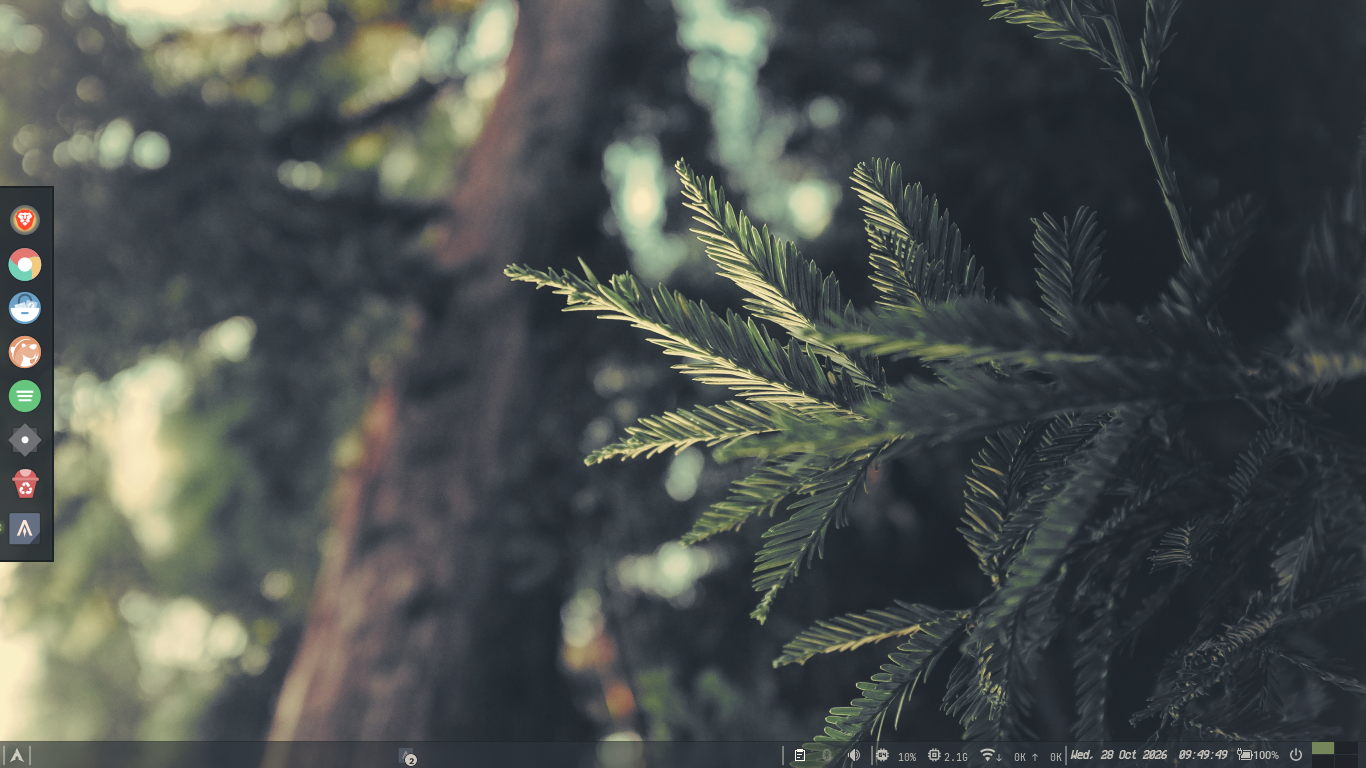
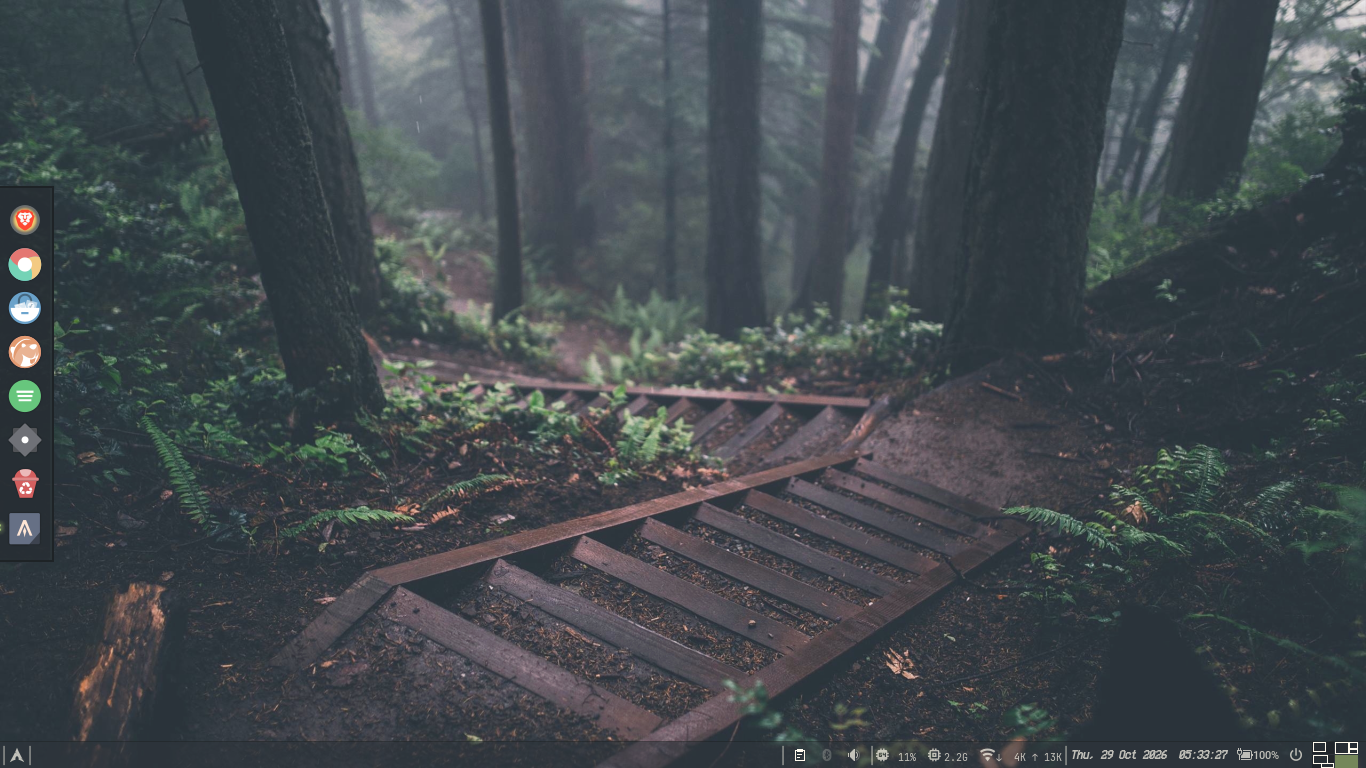
Capturas nuevas (mosaico y tiling -h) y README sin "No incluido"

diff --git a/README.md b/README.md
@@ -4,7 +4,9 @@ Arch + XFCE (X11) con Everforest Dark Hard, bordes cuadrados y temas intercambia
 
 ![Escritorio](screenshots/desktop.png)
 
-![Alacritty con neofetch, btop y bat](screenshots/terminals.png)
+![Mosaico en espiral áurea: btop, neofetch y picom.conf](screenshots/tiling.png)
+
+![Ventanas flotantes con bordes Square: tiling -h y theme.env](screenshots/terminals.png)
 
 ![Rofi sobre Thunar](screenshots/rofi.png)
 
@@ -79,9 +81,3 @@ Super+Alt+↑ era "maximizar" en xfwm4: ahora es de `tiling`, que fuera del mosa
 | Zed | extensión "Everforest" (`zed: extensions`); Gruvbox ya viene incluido |
 | Spotify | `sudo chmod a+wr /opt/spotify && sudo chmod -R a+wr /opt/spotify/Apps`, luego `spicetify backup apply` |
 | Legcord | reiniciarlo para que cargue `quickCss.css` |
-
-## No incluido
-
-- GRUB: se queda el tema Hollow Knight.
-- xfce4-terminal: la terminal por defecto es Alacritty.
-- Configs huérfanas (hypr, waybar, wofi, mako, swaylock, starship): no se tocan.
